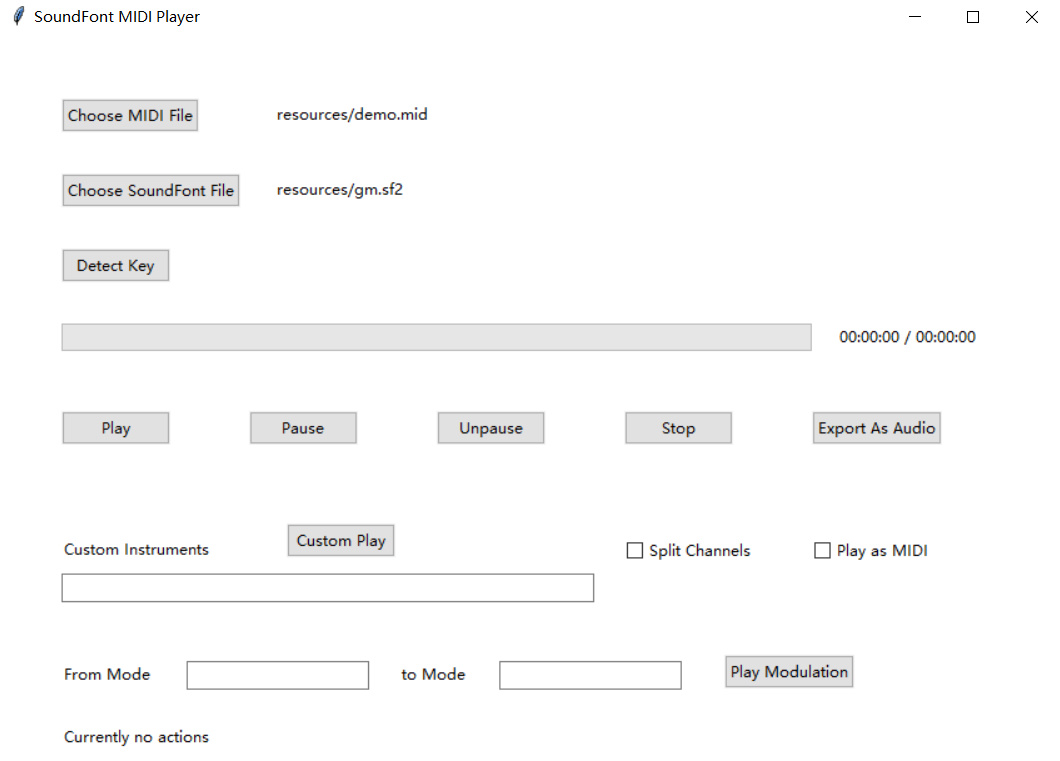
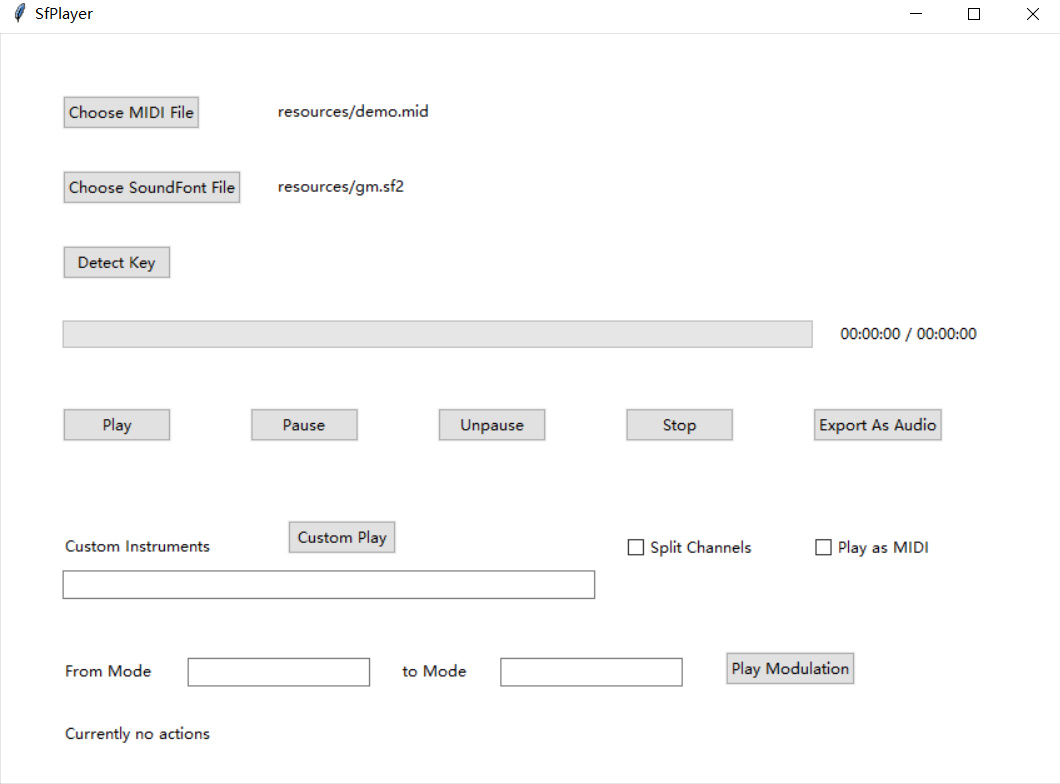
update

diff --git a/README.md b/README.md
@@ -1,9 +1,43 @@
-# SoundFont MIDI Player
-This is a simple SoundFont player that supports playing MIDI files, you can choose MIDI files and SoundFont files to play, and export as audio files.
+# SfPlayer
+## Introduction
 
-This soundfont player also offers some music theory functionality, such as modulation for MIDI files, custom instruments on each track of MIDI files, detecting the main key of MIDI files.
+SfPlayer is a simple SoundFont player that has the following functionality:
+
+* Loading MIDI files and SoundFont files, play MIDI files with the loaded SoundFont files
+
+* MIDI playback bar with full control and pause / unpause / stop functionality
+
+* Drag and drop support of MIDI files and SoundFont files
+
+* Export rendered audio of MIDI file with the SoundFont file it plays with to mp3 / wav /ogg and so on
+
+* Detect the most possible main key of the MIDI file using music theory algorithm
+
+* Custom the instruments of each track of the MIDI file using for playback
+
+* Perform an entire modulation from a mode to another mode on the MIDI file and play
+
+* More functionality is on the way!
+
+  
+
+## Usage
+
+SfPlayer currently only supports Windows.
+
+Click on `Choose MIDI File` button to select a MIDI file, click on `Choose SoundFont File` button to select a SoundFont file, and then click on `Play` button to start the playing of the MIDI file using the SoundFont file. You can also drag and drop the MIDI file and SoundFont file to the window, it will automatically detect the file extension and load as MIDI file or SoundFont file.
+
+
 
 ## Previews
 
 ![image](previews/1.jpg)
+
+
+
+## TODO
+
+* Adding SoundFont and MIDI related parameters control widgets
+* Adding more functionality related to music theory algorithm
+* Make the user interface more organized and straightforward
 
